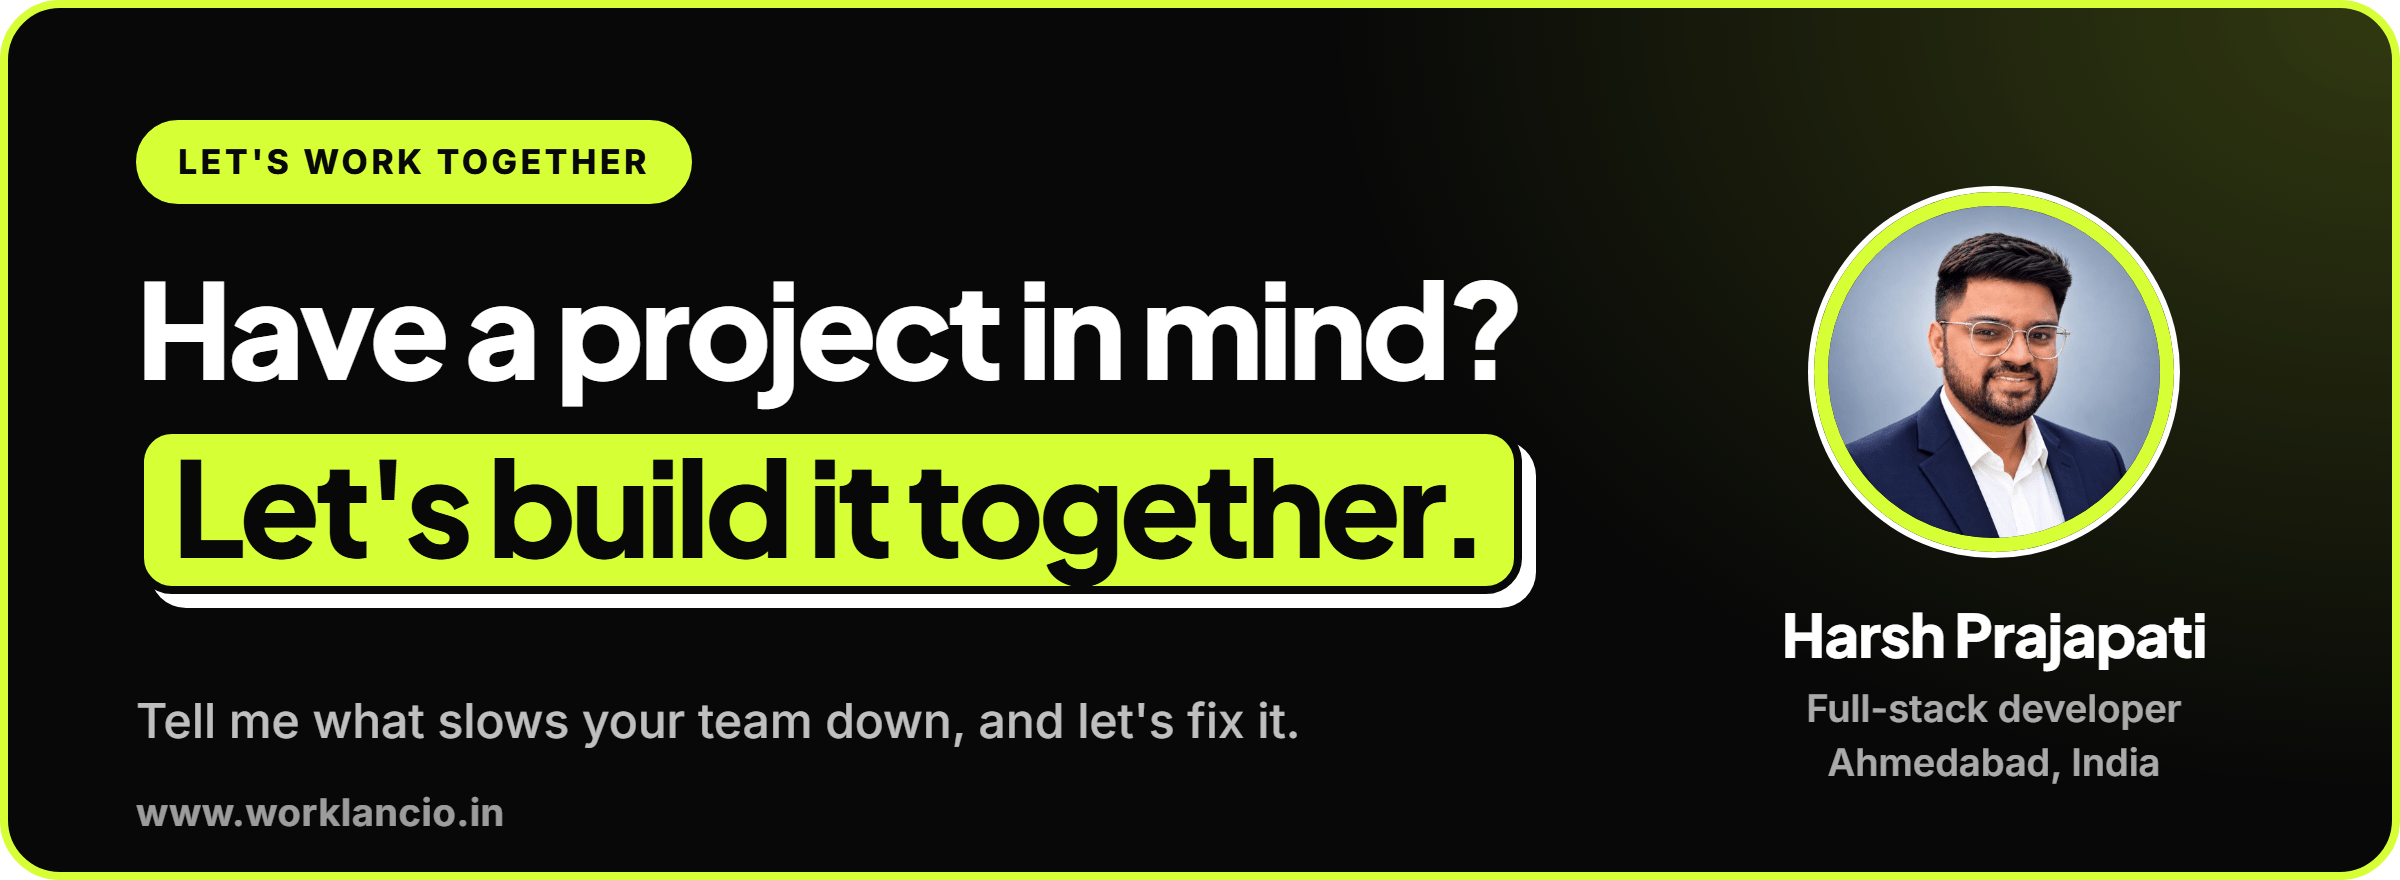
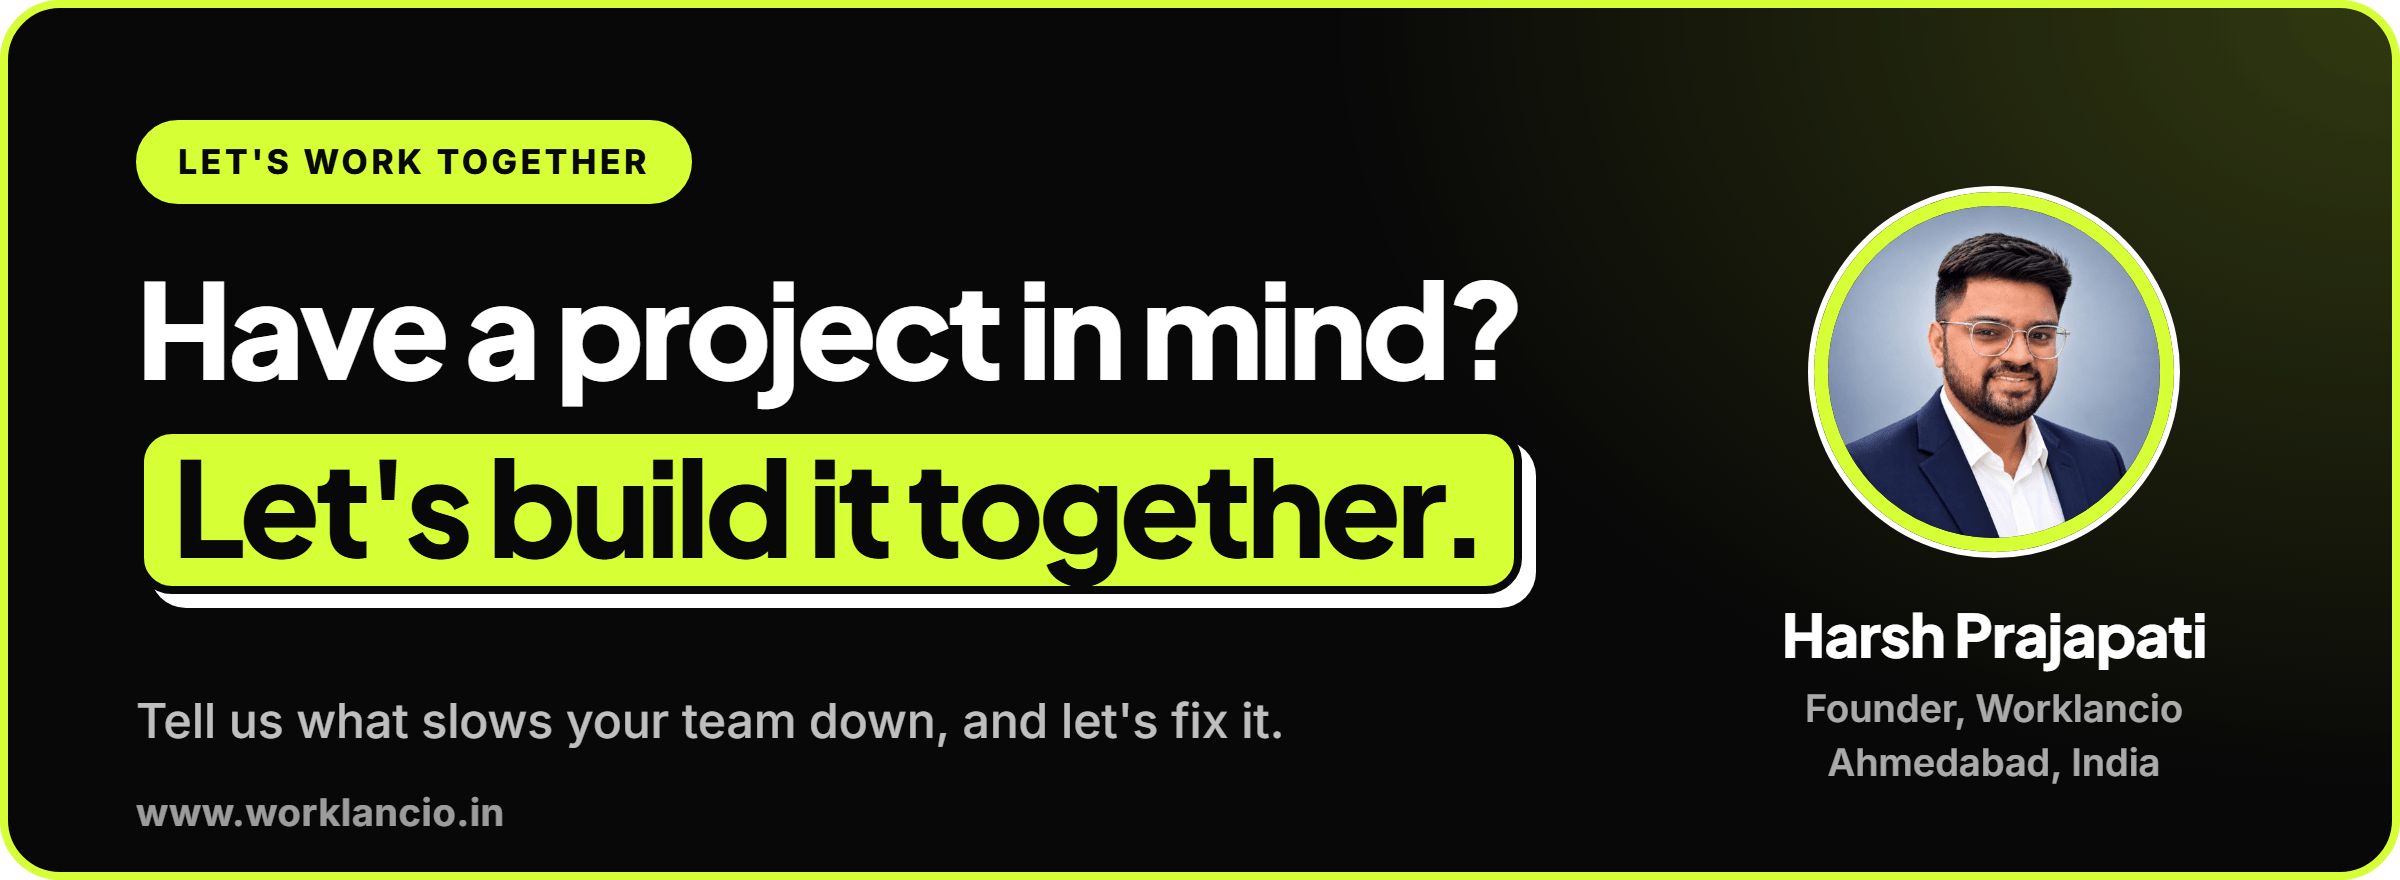
Speak as Worklancio, and add a free quote button
- README text uses "we" for the company; Harsh is named as founder
- Hero and closing images now say "We build" and "Tell us", with
  "Founder, Worklancio" under the name
- New "Get a free quote" button next to WhatsApp, linking to the
  contact form

Changed region(s): [[0.0938, 0.7977, 0.5312, 0.8591], [0.75, 0.767, 0.9062, 0.8284]]

diff --git a/assets/src/visuals.html b/assets/src/visuals.html
@@ -9,12 +9,12 @@
 <section class="shot hero" data-out="hero.png">
 	<div class="top">
 		<img class="av" src="img/avatar.jpg" alt="">
-		<div><b>Harsh Prajapati</b><span>Freelance full-stack developer · Ahmedabad, India</span></div>
+		<div><b>Harsh Prajapati</b><span>Founder, Worklancio · Ahmedabad, India</span></div>
 		<span class="sp"></span>
 		<span class="open"><i></i>Open for projects</span>
 	</div>
-	<h1>I build the software<br><em class="hl">your business runs on.</em></h1>
-	<p class="sub">Custom CRMs, web apps and WordPress builds shaped around how your team already works. You deal directly with the developer.</p>
+	<h1>We build the software<br><em class="hl">your business runs on.</em></h1>
+	<p class="sub">Custom CRMs, web apps and WordPress builds shaped around how your team already works. You deal directly with the people building it.</p>
 	<div class="pills"><span>Custom CRMs</span><span>Web apps</span><span>WordPress</span><span>Business automation</span></div>
 	<div class="site">www.worklancio.in</div>
 </section>
@@ -24,14 +24,16 @@
 <section class="shot dark cta" data-out="cta.png">
 	<span class="kicker">Let's work together</span>
 	<h2>Have a project in mind?<br><em class="hl">Let's build it together.</em></h2>
-	<p class="sub">Tell me what slows your team down, and let's fix it.</p>
-	<div class="me"><img class="av" src="img/avatar.jpg" alt=""><b>Harsh Prajapati</b><span>Full-stack developer<br>Ahmedabad, India</span></div>
+	<p class="sub">Tell us what slows your team down, and let's fix it.</p>
+	<div class="me"><img class="av" src="img/avatar.jpg" alt=""><b>Harsh Prajapati</b><span>Founder, Worklancio<br>Ahmedabad, India</span></div>
 	<div class="site">www.worklancio.in</div>
 </section>
 
 <!-- CONTACT BUTTONS -->
 <div class="btns">
-	<span class="bw" data-out="btn-website.png"><span class="btn"><span class="ic"><img src="img/worklancio-icon.png" alt="" style="width:48px;height:48px;display:block"></span>Visit my website</span></span>
+	<span class="bw" data-out="btn-website.png"><span class="btn"><span class="ic"><img src="img/worklancio-icon.png" alt="" style="width:48px;height:48px;display:block"></span>Visit our website</span></span>
+
+	<span class="bw" data-out="btn-quote.png"><span class="btn"><span class="ic"><img src="img/worklancio-icon.png" alt="" style="width:48px;height:48px;display:block"></span>Get a free quote</span></span>
 
 	<span class="bw" data-out="btn-whatsapp.png"><span class="btn primary"><span class="ic"><svg viewBox="0 0 24 24"><circle cx="12" cy="12" r="12" fill="#25D366"/><g transform="translate(3.2 3.2) scale(.733)"><path fill="#fff" d="M12.001 2C17.5238 2 22.001 6.47715 22.001 12C22.001 17.5228 17.5238 22 12.001 22C10.1671 22 8.44851 21.5064 6.97086 20.6447L2.00516 22L3.35712 17.0315C2.49494 15.5536 2.00098 13.8345 2.00098 12C2.00098 6.47715 6.47813 2 12.001 2ZM8.59339 7.30019L8.39232 7.30833C8.26293 7.31742 8.13607 7.34902 8.02057 7.40811C7.93392 7.45244 7.85348 7.51651 7.72709 7.63586C7.60774 7.74855 7.53857 7.84697 7.46569 7.94186C7.09599 8.4232 6.89729 9.01405 6.90098 9.62098C6.90299 10.1116 7.03043 10.5884 7.23169 11.0336C7.63982 11.9364 8.31288 12.8908 9.20194 13.7759C9.4155 13.9885 9.62473 14.2034 9.85034 14.402C10.9538 15.3736 12.2688 16.0742 13.6907 16.4482C13.6907 16.4482 14.2507 16.5342 14.2589 16.5347C14.4444 16.5447 14.6296 16.5313 14.8153 16.5218C15.1066 16.5068 15.391 16.428 15.6484 16.2909C15.8139 16.2028 15.8922 16.159 16.0311 16.0714C16.0311 16.0714 16.0737 16.0426 16.1559 15.9814C16.2909 15.8808 16.3743 15.81 16.4866 15.6934C16.5694 15.6074 16.6406 15.5058 16.6956 15.3913C16.7738 15.2281 16.8525 14.9166 16.8838 14.6579C16.9077 14.4603 16.9005 14.3523 16.8979 14.2854C16.8936 14.1778 16.8047 14.0671 16.7073 14.0201L16.1258 13.7587C16.1258 13.7587 15.2563 13.3803 14.7245 13.1377C14.6691 13.1124 14.6085 13.1007 14.5476 13.097C14.4142 13.0888 14.2647 13.1236 14.1696 13.2238C14.1646 13.2218 14.0984 13.279 13.3749 14.1555C13.335 14.2032 13.2415 14.3069 13.0798 14.2972C13.0554 14.2955 13.0311 14.292 13.0074 14.2858C12.9419 14.2685 12.8781 14.2457 12.8157 14.2193C12.692 14.1668 12.6486 14.1469 12.5641 14.1105C11.9868 13.8583 11.457 13.5209 10.9887 13.108C10.8631 12.9974 10.7463 12.8783 10.6259 12.7616C10.2057 12.3543 9.86169 11.9211 9.60577 11.4938C9.5918 11.4705 9.57027 11.4368 9.54708 11.3991C9.50521 11.331 9.45903 11.25 9.44455 11.1944C9.40738 11.0473 9.50599 10.9291 9.50599 10.9291C9.50599 10.9291 9.74939 10.663 9.86248 10.5183C9.97128 10.379 10.0652 10.2428 10.125 10.1457C10.2428 9.95633 10.2801 9.76062 10.2182 9.60963C9.93764 8.92565 9.64818 8.24536 9.34986 7.56894C9.29098 7.43545 9.11585 7.33846 8.95659 7.32007C8.90265 7.31384 8.84875 7.30758 8.79459 7.30402C8.66053 7.29748 8.5262 7.29892 8.39232 7.30833L8.59339 7.30019Z"/></g></svg></span>Chat on WhatsApp</span></span>
 

diff --git a/README.md b/README.md
@@ -1,22 +1,23 @@
 <p align="center">
-  <img src="assets/hero.png" width="100%" alt="Harsh Prajapati, freelance full-stack developer in Ahmedabad, India. I build the software your business runs on. Custom CRMs, web apps, WordPress and business automation.">
+  <img src="assets/hero.png" width="100%" alt="Harsh Prajapati, founder of Worklancio in Ahmedabad, India. We build the software your business runs on. Custom CRMs, web apps, WordPress and business automation.">
 </p>
 
 <p align="center">
-  <a href="https://www.worklancio.in"><img src="assets/btn-website.png" height="46" alt="Visit my website, worklancio.in"></a>&nbsp;
+  <a href="https://www.worklancio.in"><img src="assets/btn-website.png" height="46" alt="Visit our website, worklancio.in"></a>&nbsp;
   <a href="https://wa.me/919898528376?text=Hi%20Harsh%2C%20I%20saw%20your%20GitHub%20profile%20and%20have%20a%20project%20in%20mind."><img src="assets/btn-whatsapp.png" height="46" alt="Chat on WhatsApp"></a>&nbsp;
+  <a href="https://www.worklancio.in/contact"><img src="assets/btn-quote.png" height="46" alt="Get a free quote from Worklancio"></a>&nbsp;
   <a href="https://www.linkedin.com/in/iamharshprajapati/"><img src="assets/btn-linkedin.png" height="46" alt="Connect on LinkedIn"></a>
 </p>
 
-## Hi, I'm Harsh
+## Hi, I'm Harsh, founder of Worklancio
 
-I'm a freelance full-stack developer in Ahmedabad, India. I've been building for the web since 2018 and freelancing since 2022.
+Worklancio is a web development company in Ahmedabad, India, founded by Harsh Prajapati. We have been building for the web since 2018.
 
-I work with business owners and small teams who have outgrown spreadsheets, scattered WhatsApp threads and manual follow-ups. I turn that into one clear system the whole team can use. You talk directly to the person writing the code, from the first call to launch and after.
+We work with business owners and small teams who have outgrown spreadsheets, scattered WhatsApp threads and manual follow-ups, and we turn that into one clear system the whole team can use. You talk directly to the person writing the code, from the first call to launch and after.
 
-See my services, pricing and full case studies at [worklancio.in](https://www.worklancio.in).
+See our services, pricing and full case studies at [worklancio.in](https://www.worklancio.in).
 
-## What I build
+## What we build
 
 **Custom CRMs and business dashboards**<br>
 See leads, projects, payments and your team's work in one place, with numbers you can trust.
@@ -38,7 +39,7 @@ Connect the tools you already pay for, so the repetitive work runs on its own.
 
 **Your client shouldn't have to email you to ask what they owe.**
 
-**Case study · my own build, Worklancio (Work. Track. Get Paid.).** I built one place for clients, time, invoices and payments. Every hour starts on a task and ends on an invoice, and each client gets a private portal that shows what's due, since when, and what every payment settled.
+**Case study · our own product, Worklancio (Work. Track. Get Paid.).** We built one place for clients, time, invoices and payments. Every hour starts on a task and ends on an invoice, and each client gets a private portal that shows what's due, since when, and what every payment settled.
 
 - Clients with sub-clients and brands, each project at its own rate
 - A live timer plus quick manual entries
@@ -59,9 +60,9 @@ Connect the tools you already pay for, so the repetitive work runs on its own.
 
 Screens show demo data.
 
-[Read the full case study on my website](https://www.worklancio.in/work/worklancio)
+[Read the full case study on our website](https://www.worklancio.in/work/worklancio)
 
-**Freelancer or agency chasing payments by email? I'll build you a portal your clients actually check, so you always know who has paid. [Let's talk.](https://wa.me/919898528376?text=Hi%20Harsh%2C%20I%20saw%20your%20GitHub%20profile%20and%20have%20a%20project%20in%20mind.)**
+**Freelancer or agency chasing payments by email? We'll build you a portal your clients actually check, so you always know who has paid. [Let's talk.](https://wa.me/919898528376?text=Hi%20Harsh%2C%20I%20saw%20your%20GitHub%20profile%20and%20have%20a%20project%20in%20mind.)**
 
 ---
 
@@ -91,9 +92,9 @@ Screens show demo data.
 
 Screens show demo data. The code and live system are private.
 
-[Read the full case study on my website](https://www.worklancio.in/work/projectly)
+[Read the full case study on our website](https://www.worklancio.in/work/projectly)
 
-**Run an agency or studio that bills by the hour? I'll build a portal around how your team already works, so every hour gets billed. [Let's talk.](https://wa.me/919898528376?text=Hi%20Harsh%2C%20I%20saw%20your%20GitHub%20profile%20and%20have%20a%20project%20in%20mind.)**
+**Run an agency or studio that bills by the hour? We'll build a portal around how your team already works, so every hour gets billed. [Let's talk.](https://wa.me/919898528376?text=Hi%20Harsh%2C%20I%20saw%20your%20GitHub%20profile%20and%20have%20a%20project%20in%20mind.)**
 
 ---
 
@@ -121,7 +122,7 @@ Screens show demo data. The code and live system are private.
 
 Screens show demo data. The code and live system are private.
 
-[Read the full case study on my website](https://www.worklancio.in/work/ucs-crm)
+[Read the full case study on our website](https://www.worklancio.in/work/ucs-crm)
 
 **Want one for your business? [Let's talk.](https://wa.me/919898528376?text=Hi%20Harsh%2C%20I%20saw%20your%20GitHub%20profile%20and%20have%20a%20project%20in%20mind.)**
 
@@ -233,13 +234,14 @@ Also: MySQL, WooCommerce, ACF, Elementor, REST APIs, Git and Shopify.
 
 ## Let's work together
 
-<a href="https://wa.me/919898528376?text=Hi%20Harsh%2C%20I%20saw%20your%20GitHub%20profile%20and%20have%20a%20project%20in%20mind."><img src="assets/cta.png" width="100%" alt="Have a project in mind? Let's build it together. Tell me what slows your team down, and let's fix it."></a>
+<a href="https://wa.me/919898528376?text=Hi%20Harsh%2C%20I%20saw%20your%20GitHub%20profile%20and%20have%20a%20project%20in%20mind."><img src="assets/cta.png" width="100%" alt="Have a project in mind? Let's build it together. Tell us what slows your team down, and let's fix it."></a>
 
-I'm open to one-off builds and long-term work. Send a short note about what you need and I'll come back with questions or a clear next step. You can also see my services and pricing at [worklancio.in](https://www.worklancio.in).
+We're open to one-off builds and long-term work. Send a short note about what you need and we'll come back with questions or a clear next step. You can also see our services and pricing at [worklancio.in](https://www.worklancio.in).
 
 <p align="center">
-  <a href="https://www.worklancio.in"><img src="assets/btn-website.png" height="46" alt="Visit my website, worklancio.in"></a>&nbsp;
+  <a href="https://www.worklancio.in"><img src="assets/btn-website.png" height="46" alt="Visit our website, worklancio.in"></a>&nbsp;
   <a href="https://wa.me/919898528376?text=Hi%20Harsh%2C%20I%20saw%20your%20GitHub%20profile%20and%20have%20a%20project%20in%20mind."><img src="assets/btn-whatsapp.png" height="46" alt="Chat on WhatsApp"></a>&nbsp;
+  <a href="https://www.worklancio.in/contact"><img src="assets/btn-quote.png" height="46" alt="Get a free quote from Worklancio"></a>&nbsp;
   <a href="https://www.linkedin.com/in/iamharshprajapati/"><img src="assets/btn-linkedin.png" height="46" alt="Connect on LinkedIn"></a>
 </p>
 
